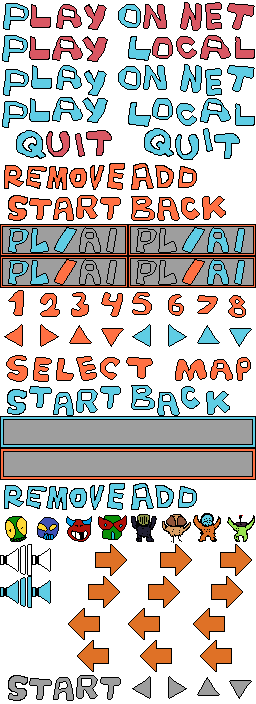
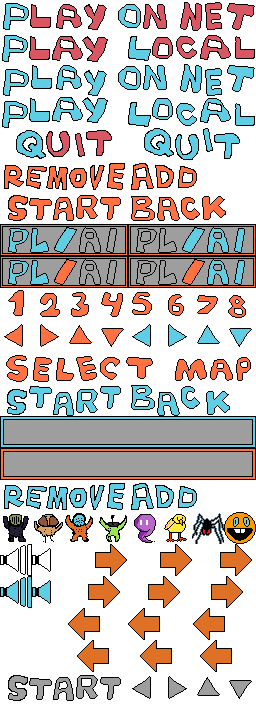
Now possible with 8 players

Changed region(s): [[0.0, 0.7188, 1.0, 0.7812]]

diff --git a/src/main/java/map/GraphicalGameMap.java b/src/main/java/map/GraphicalGameMap.java
@@ -27,7 +27,8 @@ public class GraphicalGameMap extends GameMap {
                 Hole_YellowBoarder6 = 110, Hole_YellowBoarder7 = 113, Hole_YellowBoarder8 = 114, Hole_YellowBoarder9 = 115,
                 Hole_YellowBoarder10 = 116, Hole_YellowBoarder11 = 117, Hole_YellowBoarder12 = 118;
 
-    private int StartPosID_1 = 121, StartPosID_2 = 122, StartPosID_3 = 123, StartPosID_4 = 124, StartPosID_5 = 125, StartPosID_6 = 126, StartPosID_7 = 127, StartPosID_8 = 128;
+    private int StartPosID_1 = 121, StartPosID_2 = 122, StartPosID_3 = 123, StartPosID_4 = 124,
+            StartPosID_5 = 129, StartPosID_6 = 130, StartPosID_7 = 131, StartPosID_8 = 132;
 
     Point[] spawnPositions = new Point[8];
     Point[] flagPositions = new Point[4];
@@ -41,7 +42,11 @@ public class GraphicalGameMap extends GameMap {
     TiledMapTileLayer.Cell[]player2Cells = new TiledMapTileLayer.Cell[6];
     TiledMapTileLayer.Cell[]player3Cells = new TiledMapTileLayer.Cell[6];
     TiledMapTileLayer.Cell[]player4Cells = new TiledMapTileLayer.Cell[6];
-    TiledMapTileLayer.Cell[][] playerCells = new TiledMapTileLayer.Cell[4][6];
+    TiledMapTileLayer.Cell[]player5Cells = new TiledMapTileLayer.Cell[6];
+    TiledMapTileLayer.Cell[]player6Cells = new TiledMapTileLayer.Cell[6];
+    TiledMapTileLayer.Cell[]player7Cells = new TiledMapTileLayer.Cell[6];
+    TiledMapTileLayer.Cell[]player8Cells = new TiledMapTileLayer.Cell[6];
+    TiledMapTileLayer.Cell[][] playerCells = new TiledMapTileLayer.Cell[8][6];
 
     Wall wall;
 
@@ -91,10 +96,42 @@ public class GraphicalGameMap extends GameMap {
         player4Cells[4] = new TiledMapTileLayer.Cell().setTile(new StaticTiledMapTile(playerImages[5][2])); // won
         player4Cells[5] = new TiledMapTileLayer.Cell().setTile(new StaticTiledMapTile(playerImages[5][3])); // died
 
+        player5Cells[0] = new TiledMapTileLayer.Cell().setTile(new StaticTiledMapTile(playerImages[7][1])); // north
+        player5Cells[1] = new TiledMapTileLayer.Cell().setTile(new StaticTiledMapTile(playerImages[6][1])); // east
+        player5Cells[2] = new TiledMapTileLayer.Cell().setTile(new StaticTiledMapTile(playerImages[6][0])); // south
+        player5Cells[3] = new TiledMapTileLayer.Cell().setTile(new StaticTiledMapTile(playerImages[7][0])); // west
+        player5Cells[4] = new TiledMapTileLayer.Cell().setTile(new StaticTiledMapTile(playerImages[8][0])); // won
+        player5Cells[5] = new TiledMapTileLayer.Cell().setTile(new StaticTiledMapTile(playerImages[8][1])); // died
+
+        player6Cells[0] = new TiledMapTileLayer.Cell().setTile(new StaticTiledMapTile(playerImages[7][3])); // north
+        player6Cells[1] = new TiledMapTileLayer.Cell().setTile(new StaticTiledMapTile(playerImages[6][3])); // east
+        player6Cells[2] = new TiledMapTileLayer.Cell().setTile(new StaticTiledMapTile(playerImages[6][2])); // south
+        player6Cells[3] = new TiledMapTileLayer.Cell().setTile(new StaticTiledMapTile(playerImages[7][2])); // west
+        player6Cells[4] = new TiledMapTileLayer.Cell().setTile(new StaticTiledMapTile(playerImages[8][2])); // won
+        player6Cells[5] = new TiledMapTileLayer.Cell().setTile(new StaticTiledMapTile(playerImages[8][3])); // died
+
+        player7Cells[0] = new TiledMapTileLayer.Cell().setTile(new StaticTiledMapTile(playerImages[10][1])); // north
+        player7Cells[1] = new TiledMapTileLayer.Cell().setTile(new StaticTiledMapTile(playerImages[9][1])); // east
+        player7Cells[2] = new TiledMapTileLayer.Cell().setTile(new StaticTiledMapTile(playerImages[9][0])); // south
+        player7Cells[3] = new TiledMapTileLayer.Cell().setTile(new StaticTiledMapTile(playerImages[7][0])); // west
+        player7Cells[4] = new TiledMapTileLayer.Cell().setTile(new StaticTiledMapTile(playerImages[8][0])); // won
+        player7Cells[5] = new TiledMapTileLayer.Cell().setTile(new StaticTiledMapTile(playerImages[8][1])); // died
+
+        player8Cells[0] = new TiledMapTileLayer.Cell().setTile(new StaticTiledMapTile(playerImages[10][3])); // north
+        player8Cells[1] = new TiledMapTileLayer.Cell().setTile(new StaticTiledMapTile(playerImages[9][3])); // east
+        player8Cells[2] = new TiledMapTileLayer.Cell().setTile(new StaticTiledMapTile(playerImages[9][2])); // south
+        player8Cells[3] = new TiledMapTileLayer.Cell().setTile(new StaticTiledMapTile(playerImages[7][2])); // west
+        player8Cells[4] = new TiledMapTileLayer.Cell().setTile(new StaticTiledMapTile(playerImages[8][2])); // won
+        player8Cells[5] = new TiledMapTileLayer.Cell().setTile(new StaticTiledMapTile(playerImages[8][3])); // died
+
         playerCells[0] = player1Cells;
         playerCells[1] = player2Cells;
         playerCells[2] = player3Cells;
         playerCells[3] = player4Cells;
+        playerCells[4] = player5Cells;
+        playerCells[5] = player6Cells;
+        playerCells[6] = player7Cells;
+        playerCells[7] = player8Cells;
 
         wall = new Wall(this);
         findSpawnPositions();

diff --git a/src/main/java/screens/LocalSetupScreen.java b/src/main/java/screens/LocalSetupScreen.java
@@ -39,7 +39,7 @@ public class LocalSetupScreen extends AbstractScreen implements InputProcessor {
     BitmapFont font;
 
     int editNameIndexActive = -1;
-    int maxPlayers = 4;
+    int maxPlayers = 8;
     int playersAdded = 1;
     boolean[] isAi = new boolean[maxPlayers];
     private StringBuilder[] allStringBuilders = new StringBuilder[maxPlayers];
@@ -102,9 +102,9 @@ public class LocalSetupScreen extends AbstractScreen implements InputProcessor {
             numbers[i] = localSetupRegionBy32[9][i];
         }
 
-        characters = new TextureRegion[4]; // TODO: should be "maxPlayers" instead of 4, change when all 8 characters are done!
+        characters = new TextureRegion[maxPlayers];
         for (int i = 0; i < maxPlayers; i++) {
-            characters[i] = localSetupRegionBy32[16][4+i];
+            characters[i] = localSetupRegionBy32[16][i];
         }
 
         for (int i = 0; i < maxPlayers; i++) {
@@ -346,6 +346,7 @@ public class LocalSetupScreen extends AbstractScreen implements InputProcessor {
         GraphicalGameMap gameMap = new GraphicalGameMap(mapSelector.getCurrentMap());
         PlayerQueue playerQueue = new PlayerQueue();
         int spawnIncrementer = 0;
+        System.out.println(gameMap.getSpawnPoint(7));
         for (int i = 0; i < playersAdded; i++) {
             if(isAi[i]) playerQueue.add(new AIPlayer((int) gameMap.getSpawnPoint(spawnIncrementer).getX(), (int) gameMap.getSpawnPoint(spawnIncrementer).getY(), allStringBuilders[i].toString(), gameMap, i));
             else playerQueue.add(new Player((int) gameMap.getSpawnPoint(spawnIncrementer).getX(), (int) gameMap.getSpawnPoint(spawnIncrementer).getY(), allStringBuilders[i].toString(), gameMap, true, i));
